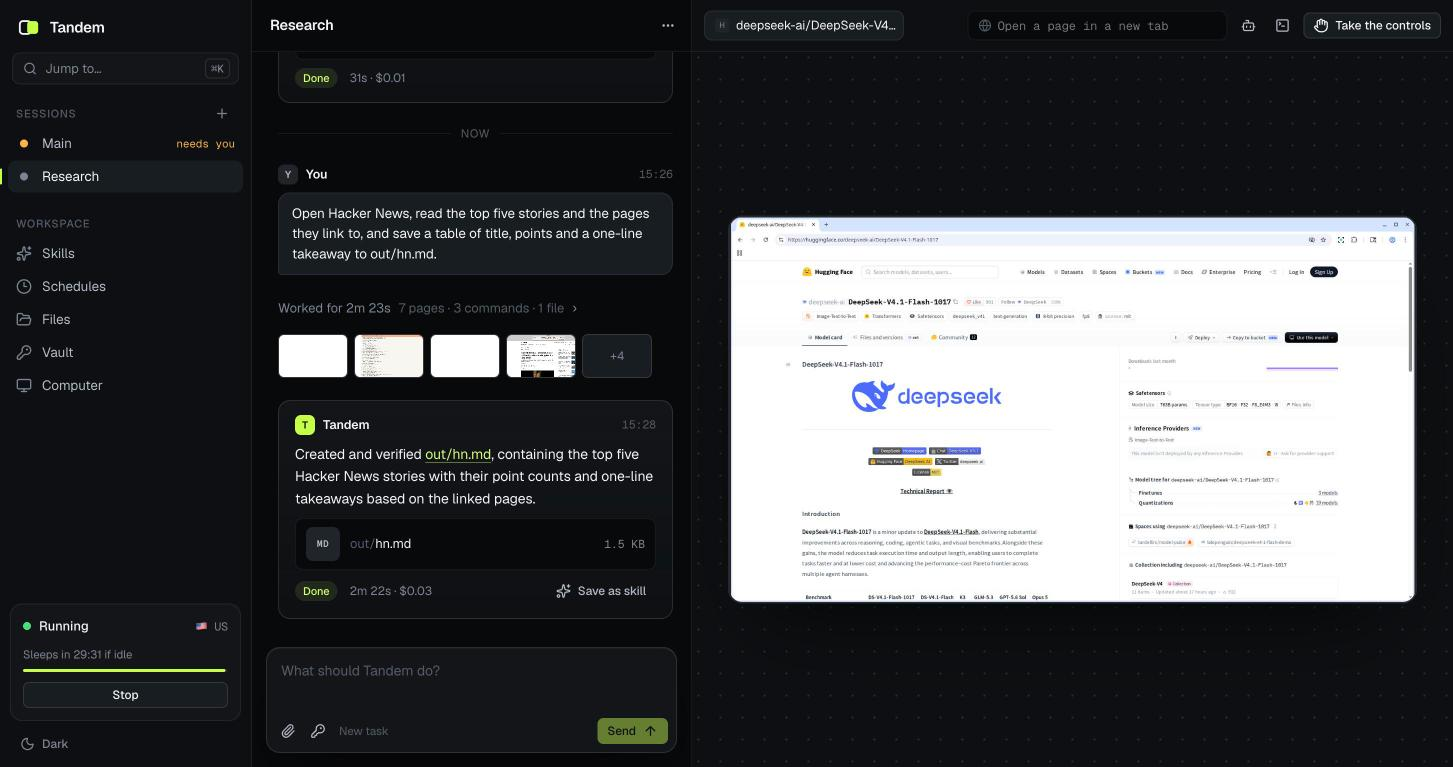
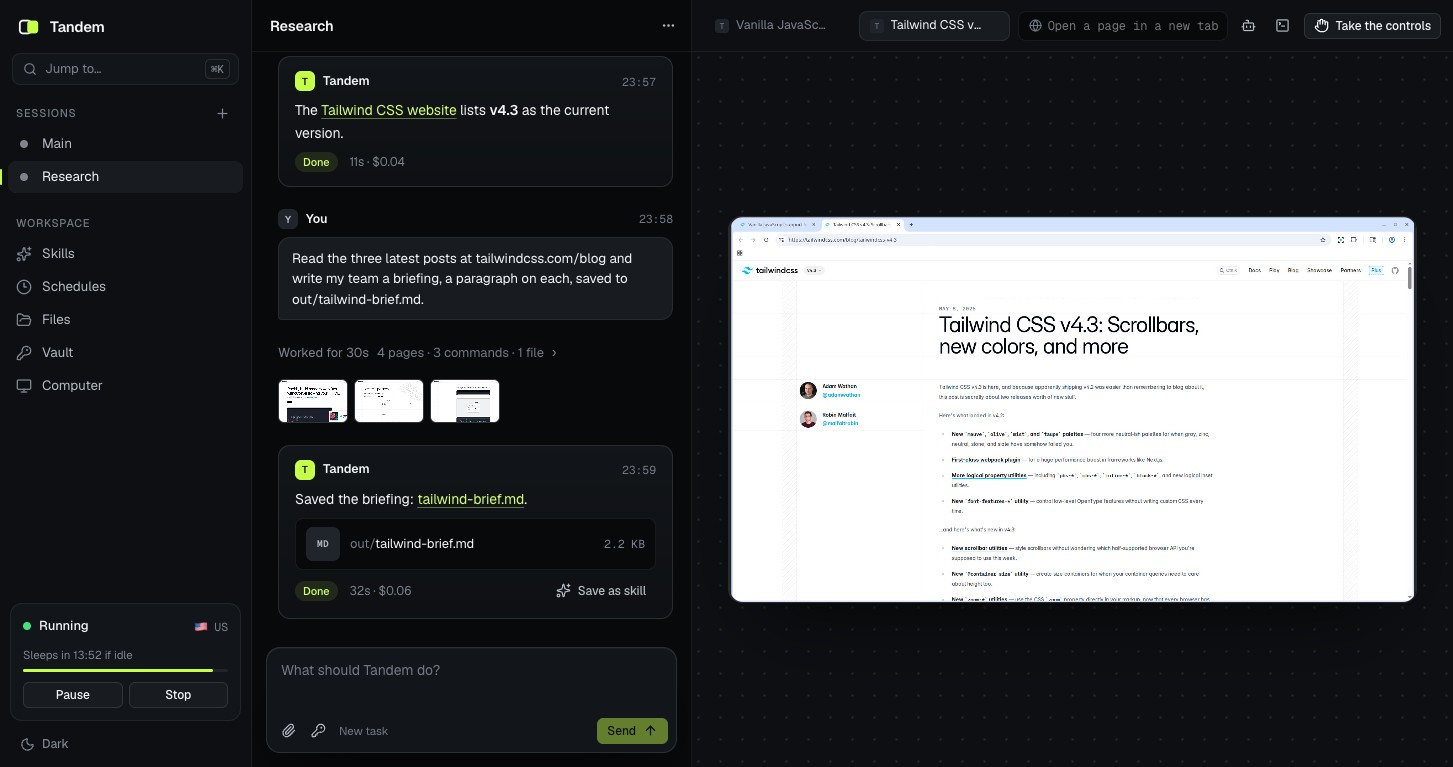
docs(starter): name the starter Tandem
The app has called itself Tandem while the README called it the starter. The README now leads with the name it ships under, with a new screenshot and a few spacing fixes in the styles.

diff --git a/examples/starter/src/app/globals.css b/examples/starter/src/app/globals.css
@@ -13,13 +13,12 @@
   --fg: #f3f5f7;
   --fg-2: #b3bac4;
   --fg-3: #7c8490;
-  --fg-4: #545b65;
+  --fg-4: #717985;
 
   --accent: #c5ff4a;
   --accent-ink: #0c0f06;
   --accent-text: #d4ff74;
   --accent-soft: rgba(197, 255, 74, 0.1);
-  --accent-glow: rgba(197, 255, 74, 0.35);
   --human: #ffb547;
   --human-soft: rgba(255, 181, 71, 0.12);
   --ok: #4ade80;
@@ -55,7 +54,6 @@
   --accent-ink: #0c0f06;
   --accent-text: #3e6a00;
   --accent-soft: rgba(126, 190, 0, 0.12);
-  --accent-glow: rgba(126, 190, 0, 0.35);
   --human: #c27800;
   --human-soft: rgba(194, 120, 0, 0.1);
   --ok: #15803d;
@@ -84,7 +82,6 @@
     --accent-ink: #0c0f06;
     --accent-text: #3e6a00;
     --accent-soft: rgba(126, 190, 0, 0.12);
-    --accent-glow: rgba(126, 190, 0, 0.35);
     --human: #c27800;
     --human-soft: rgba(194, 120, 0, 0.1);
     --ok: #15803d;
@@ -129,14 +126,14 @@ a { color: inherit; text-decoration: none; }
 .btn:active:not(:disabled) { transform: translateY(1px); }
 .btn:disabled { opacity: 0.45; cursor: default; }
 .btn svg { width: 15px; height: 15px; flex: none; }
-.btn.primary { background: var(--accent); border-color: transparent; color: var(--accent-ink); box-shadow: 0 0 0 0 var(--accent-glow); }
-.btn.primary:hover:not(:disabled) { background: var(--accent); box-shadow: 0 0 24px -4px var(--accent-glow); filter: brightness(1.04); }
+.btn.primary { background: var(--accent); border-color: transparent; color: var(--accent-ink); }
+.btn.primary:hover:not(:disabled) { background: var(--accent); filter: brightness(1.04); }
 .btn.ghost { background: transparent; border-color: transparent; color: var(--fg-2); }
 .btn.ghost:hover:not(:disabled) { background: var(--surface-2); color: var(--fg); border-color: transparent; }
 .btn.danger { color: var(--bad); }
 .btn.danger:hover:not(:disabled) { background: var(--bad-soft); border-color: color-mix(in srgb, var(--bad) 40%, transparent); }
 .btn.human { background: var(--human); color: #1a1000; border-color: transparent; }
-.btn.human:hover:not(:disabled) { background: var(--human); border-color: transparent; filter: brightness(1.06); box-shadow: 0 0 20px -4px var(--human); }
+.btn.human:hover:not(:disabled) { background: var(--human); border-color: transparent; filter: brightness(1.06); }
 .btn.sm { height: 26px; padding: 0 9px; font-size: 12px; border-radius: var(--r-xs); }
 .btn.lg { height: 42px; padding: 0 18px; font-size: 14px; border-radius: 10px; }
 .btn.icon { width: 32px; padding: 0; }
@@ -157,7 +154,7 @@ a { color: inherit; text-decoration: none; }
 .badge.solid { background: var(--accent); color: var(--accent-ink); border-color: transparent; }
 
 .dot { position: relative; width: 8px; height: 8px; border-radius: 50%; background: var(--fg-4); flex: none; }
-.dot[data-tone="agent"] { background: var(--accent); box-shadow: 0 0 10px var(--accent-glow); }
+.dot[data-tone="agent"] { background: var(--accent); }
 .dot[data-tone="agent"]::after { content: ""; position: absolute; inset: -4px; border-radius: 50%; border: 1px solid var(--accent); animation: ping 1.6s var(--ease) infinite; }
 .dot[data-tone="human"] { background: var(--human); }
 .dot[data-tone="ok"] { background: var(--ok); }
@@ -408,7 +405,7 @@ button.thumb:hover { border-color: var(--line-3); transform: translateY(-1px); }
 .steps > li[data-state="failed"]::before { border-color: var(--bad); background: var(--bad); }
 .steps > li[data-state="declined"]::before, .steps > li[data-state="interrupted"]::before { border-style: dashed; }
 .steps > li[data-state="running"] { color: var(--fg); }
-.steps > li[data-state="running"]::before { background: var(--accent); border-color: var(--accent); box-shadow: 0 0 10px var(--accent-glow); }
+.steps > li[data-state="running"]::before { background: var(--accent); border-color: var(--accent); }
 .steps > li[data-kind="note"] { color: var(--fg); }
 .steps > li[data-kind="control"] { font-size: 12px; color: var(--human); }
 .steps > li[data-kind="control"]::before { border-color: var(--human); background: var(--human); }
@@ -464,7 +461,7 @@ a.visit-title:hover { text-decoration: underline; text-underline-offset: 3px; }
 /* The stage: the Computer's screen, in a browser frame. */
 .stage { display: grid; grid-template-rows: 52px minmax(0, 1fr) auto; min-height: 0; background: var(--bg-elev); }
 .stage-bar { display: flex; align-items: center; gap: 8px; padding: 0 12px; border-bottom: 1px solid var(--line); min-width: 0; }
-.tabs { display: flex; align-items: center; gap: 4px; min-width: 0; flex: 1; overflow-x: auto; scrollbar-width: none; }
+.tabs { display: flex; align-items: center; gap: 4px; min-width: 104px; flex: 1; overflow-x: auto; scrollbar-width: none; }
 .tab { display: inline-flex; align-items: center; gap: 7px; flex: 0 1 190px; min-width: 104px; height: 30px; padding: 0 6px 0 10px; border-radius: var(--r-sm); border: 1px solid transparent; font-size: 12.5px; color: var(--fg-3); cursor: pointer; background: none; }
 .tab:hover { background: var(--surface); color: var(--fg-2); }
 .tab[aria-selected="true"] { background: var(--surface-2); border-color: var(--line); color: var(--fg); }
@@ -474,8 +471,8 @@ a.visit-title:hover { text-decoration: underline; text-underline-offset: 3px; }
 .tab .x { display: grid; place-items: center; width: 18px; height: 18px; border-radius: 4px; color: var(--fg-4); opacity: 0; }
 .tab:hover .x { opacity: 1; }
 .tab .x:hover { background: var(--surface-3); color: var(--fg); }
-.url-form { display: flex; align-items: center; gap: 6px; height: 30px; width: 210px; padding: 0 4px 0 10px; border-radius: var(--r-sm); border: 1px solid var(--line); background: var(--bg); flex: none; }
-.url-form input { flex: 1; min-width: 0; border: 0; background: none; outline: none; font: 12px var(--mono); color: var(--fg-2); }
+.url-form { display: flex; align-items: center; gap: 6px; height: 30px; padding: 0 4px 0 10px; border-radius: var(--r-sm); border: 1px solid var(--line); background: var(--bg); flex: 0 1 210px; min-width: 96px; }
+.url-form input { flex: 1; min-width: 0; border: 0; background: none; outline: none; font: 12px var(--mono); color: var(--fg-2); text-overflow: ellipsis; }
 .url-form svg { width: 13px; height: 13px; color: var(--fg-4); }
 .who-drives { display: inline-flex; align-items: center; gap: 8px; font-size: 12.5px; color: var(--fg-2); white-space: nowrap; flex: none; }
 
@@ -483,8 +480,6 @@ a.visit-title:hover { text-decoration: underline; text-underline-offset: 3px; }
   position: relative; display: grid; place-items: center; min-height: 0; padding: 18px; overflow: hidden; container-type: size;
   background-image: radial-gradient(var(--line-2) 1px, transparent 1.2px); background-size: 22px 22px; background-position: center;
 }
-.screen::before { content: ""; position: absolute; inset: 0; background: radial-gradient(50% 50% at 50% 50%, var(--accent-soft), transparent 70%); opacity: 0; transition: opacity 600ms var(--ease); pointer-events: none; }
-.screen[data-driver="agent"]::before { opacity: 1; }
 .frame { position: relative; width: min(100cqw - 36px, (100cqh - 36px) * 16 / 9); aspect-ratio: 16 / 9; border-radius: 14px; padding: 1.5px; background: var(--line-2); box-shadow: 0 40px 80px -40px rgba(0, 0, 0, 0.8); }
 .frame > .inner { position: relative; width: 100%; height: 100%; border-radius: 13px; overflow: hidden; background: #000; }
 .frame .desktop, .frame pine-desktop { width: 100%; height: 100%; display: block; }

diff --git a/examples/starter/src/ui/skills/skills.css b/examples/starter/src/ui/skills/skills.css
@@ -67,7 +67,7 @@
 .author-lines li { position: relative; padding-left: 14px; overflow-wrap: anywhere; }
 .author-lines li::before { content: ""; position: absolute; left: 0; top: 7px; width: 5px; height: 5px; border-radius: 50%; background: var(--fg-4); }
 .author-lines li[data-state="running"] { color: var(--fg); }
-.author-lines li[data-state="running"]::before { background: var(--accent); box-shadow: 0 0 8px var(--accent-glow); }
+.author-lines li[data-state="running"]::before { background: var(--accent); }
 .author-lines li[data-state="failed"]::before { background: var(--bad); }
 .author-outcome { display: grid; gap: 8px; font-size: 13px; color: var(--fg-2); }
 .author-outcome ul { padding-left: 18px; display: grid; gap: 4px; }

diff --git a/examples/starter/README.md b/examples/starter/README.md
@@ -1,4 +1,4 @@
-# Pine Computer starter
+# Tandem: the Pine Computer starter
 
 A complete product built on [Pine Computer](https://pinecomputer.io): an agent with its
 own computer that browses and works in a shell, signs in and stays signed in, learns your
